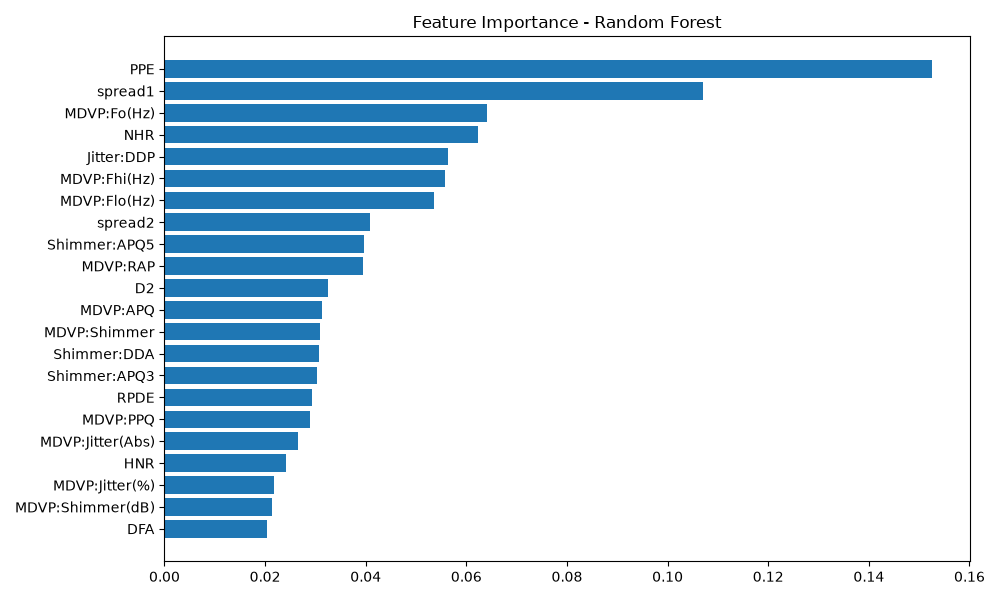
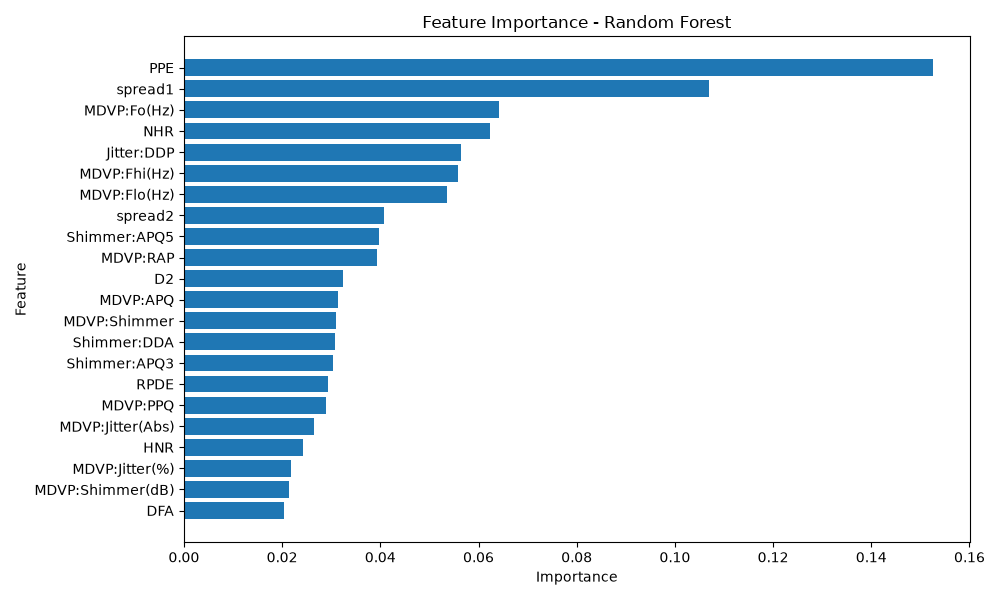
Implemented feature selection and optimal feature subset analysis

diff --git a/src/feature_selection.py b/src/feature_selection.py
@@ -6,75 +6,140 @@ import matplotlib.pyplot as plt
 from sklearn.pipeline import Pipeline
 from sklearn.preprocessing import StandardScaler
 from sklearn.ensemble import RandomForestClassifier
+from sklearn.model_selection import cross_validate
 
-from preprocessing import (
-    load_data,
-    prepare_features_and_target,
-    split_data
-)
+from preprocessing import load_data, prepare_features_and_target, split_data
 
 
 BASE_DIR = Path(__file__).resolve().parents[1]
-
 RESULTS_DIR = BASE_DIR / "results"
 
 
-def main():
-
-    df = load_data()
-
-    X, y = prepare_features_and_target(df)
-
-    X_train, X_test, y_train, y_test = split_data(X, y)
-
-    model = Pipeline([
+def build_random_forest():
+    return Pipeline([
         ("scaler", StandardScaler()),
-        ("model", RandomForestClassifier(
-            random_state=42
-        ))
+        ("model", RandomForestClassifier(random_state=42))
     ])
 
+
+def calculate_feature_importance(X_train, y_train, X_columns):
+    model = build_random_forest()
     model.fit(X_train, y_train)
 
     rf = model.named_steps["model"]
 
     importance = pd.DataFrame({
-        "Feature": X.columns,
+        "Feature": X_columns,
         "Importance": rf.feature_importances_
-    })
+    }).sort_values(by="Importance", ascending=False)
 
-    importance = importance.sort_values(
-        by="Importance",
-        ascending=False
-    )
+    return importance
 
+
+def evaluate_feature_subsets(X_train, y_train, ranked_features):
+    results = []
+
+    scoring = {
+        "accuracy": "accuracy",
+        "precision": "precision",
+        "recall": "recall",
+        "f1": "f1",
+        "roc_auc": "roc_auc"
+    }
+
+    for number_of_features in range(1, len(ranked_features) + 1):
+        selected_features = ranked_features[:number_of_features]
+
+        model = build_random_forest()
+
+        scores = cross_validate(
+            model,
+            X_train[selected_features],
+            y_train,
+            cv=5,
+            scoring=scoring
+        )
+
+        results.append({
+            "Number of features": number_of_features,
+            "Selected features": ", ".join(selected_features),
+            "Accuracy": scores["test_accuracy"].mean(),
+            "Precision": scores["test_precision"].mean(),
+            "Recall": scores["test_recall"].mean(),
+            "F1-score": scores["test_f1"].mean(),
+            "ROC-AUC": scores["test_roc_auc"].mean()
+        })
+
+    return pd.DataFrame(results)
+
+
+def plot_feature_importance(importance):
+    plt.figure(figsize=(10, 6))
+    plt.barh(importance["Feature"], importance["Importance"])
+    plt.gca().invert_yaxis()
+    plt.title("Feature Importance - Random Forest")
+    plt.xlabel("Importance")
+    plt.ylabel("Feature")
+    plt.tight_layout()
+    plt.savefig(RESULTS_DIR / "feature_importance.png")
+    plt.close()
+
+
+def plot_feature_subset_results(results):
+    plt.figure(figsize=(8, 5))
+    plt.plot(results["Number of features"], results["F1-score"], marker="o", label="F1-score")
+    plt.plot(results["Number of features"], results["Recall"], marker="o", label="Recall")
+    plt.plot(results["Number of features"], results["ROC-AUC"], marker="o", label="ROC-AUC")
+
+    plt.title("Model performance by number of selected features")
+    plt.xlabel("Number of selected features")
+    plt.ylabel("Score")
+    plt.legend()
+    plt.grid(True)
+    plt.tight_layout()
+    plt.savefig(RESULTS_DIR / "feature_subset_performance.png")
+    plt.close()
+
+
+def main():
+    df = load_data()
+
+    X, y = prepare_features_and_target(df)
+    X_train, X_test, y_train, y_test = split_data(X, y)
+
+    importance = calculate_feature_importance(X_train, y_train, X.columns)
+    importance.to_csv(RESULTS_DIR / "feature_importance.csv", index=False)
+
+    print("\nFeature importance:")
     print(importance)
 
-    importance.to_csv(
-        RESULTS_DIR / "feature_importance.csv",
+    plot_feature_importance(importance)
+
+    ranked_features = importance["Feature"].tolist()
+
+    subset_results = evaluate_feature_subsets(
+        X_train,
+        y_train,
+        ranked_features
+    )
+
+    subset_results.to_csv(
+        RESULTS_DIR / "feature_subset_comparison.csv",
         index=False
     )
 
-    plt.figure(figsize=(10, 6))
+    print("\nFeature subset comparison:")
+    print(subset_results)
 
-    plt.barh(
-        importance["Feature"],
-        importance["Importance"]
-    )
+    plot_feature_subset_results(subset_results)
 
-    plt.gca().invert_yaxis()
+    best_subset = subset_results.sort_values(
+        by=["F1-score", "Recall", "ROC-AUC"],
+        ascending=False
+    ).iloc[0]
 
-    plt.title(
-        "Feature Importance - Random Forest"
-    )
-
-    plt.tight_layout()
-
-    plt.savefig(
-        RESULTS_DIR / "feature_importance.png"
-    )
-
-    plt.show()
+    print("\nBest feature subset based on F1-score, Recall and ROC-AUC:")
+    print(best_subset)
 
 
 if __name__ == "__main__":